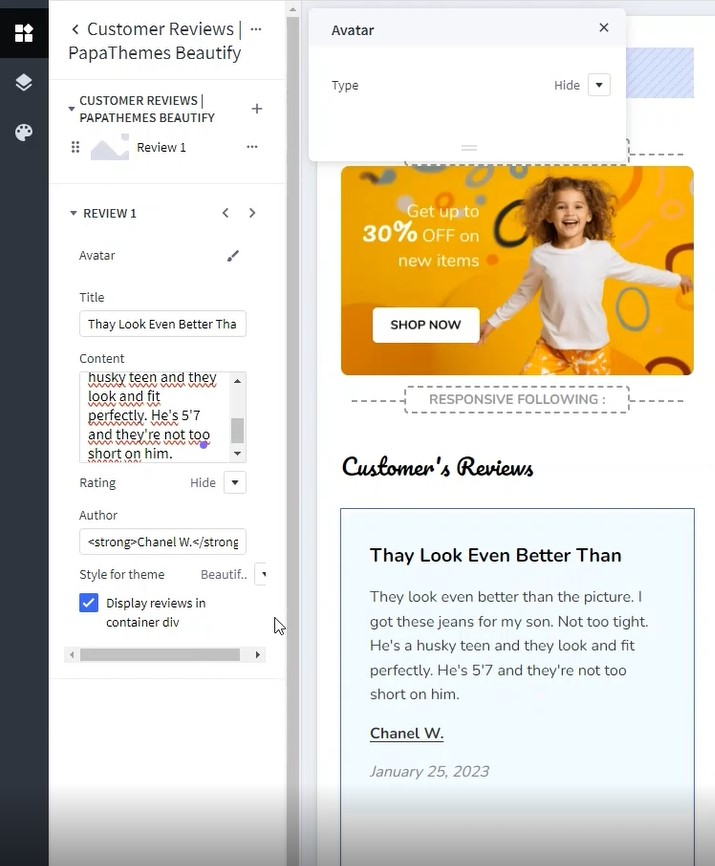
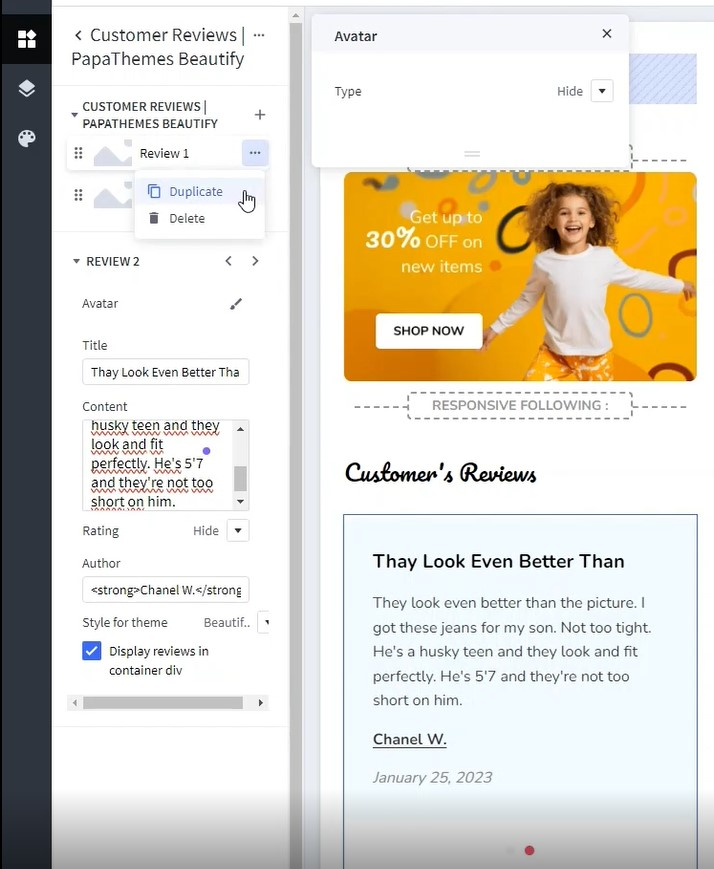
Dino Kid - Update  Customer review left side bar #26

diff --git a/docs/usage.md b/docs/usage.md
@@ -719,7 +719,7 @@ Note: Leftside bar can only display three section above. To modify the header or
 
 ![Customer's Reviews](img/kid-customer-reviews.jpg)
 
-To display the **Customer's Reviews** on the home page, go to **Page Builder**. In **Theme Styles** > **Home Page** > **Left Sidebar**, ensure that at least one of the three options is filled in.
+To display the **Customer's Reviews** on the home page.
 
 Drag & drop **Layout widget** to the corresponding position, change **Column** = `1`, set **Padding** = `0 0 0 0`.
 
@@ -733,9 +733,8 @@ Drag & drop **Section Heading | PapaThemes Beautify** widget into the **Layout**
 
 ![Customer's Reviews Heading Setting](img/customer-reviews-head-settings.jpg)
 
-Drag & drop **Layout widget** widget below **Section Heading | PapaThemes Beautify** widget, change **Column** = `1`, set **Padding** = `0 0 0 0`.
 
-Drag & drop **Customer Reviews | PapaThemes Beautify** widget into the **Layout**. Delete all other **Review** except the first one.
+Drag & drop **Customer Reviews | PapaThemes Beautify** widget widget below **Section Heading | PapaThemes Beautify** widget. Delete all other **Review** except the first one.
 
 To edit **Review 1**:
 
@@ -746,6 +745,8 @@ To edit **Review 1**:
 - Enter your **Author** (example "<strong>Chanel W.</strong> <strong>January 25, 2023</strong>")
 - Select **Style for theme** = `Beautify Furniture`.
 - Checked **Display reviews in container div**.
+
+Duplicate review 1 if you have more than 1 review want to display and change the content.
 
 ![Customer's Reviews Heading Setting](img/customer-reviews-settings.jpg)
 
